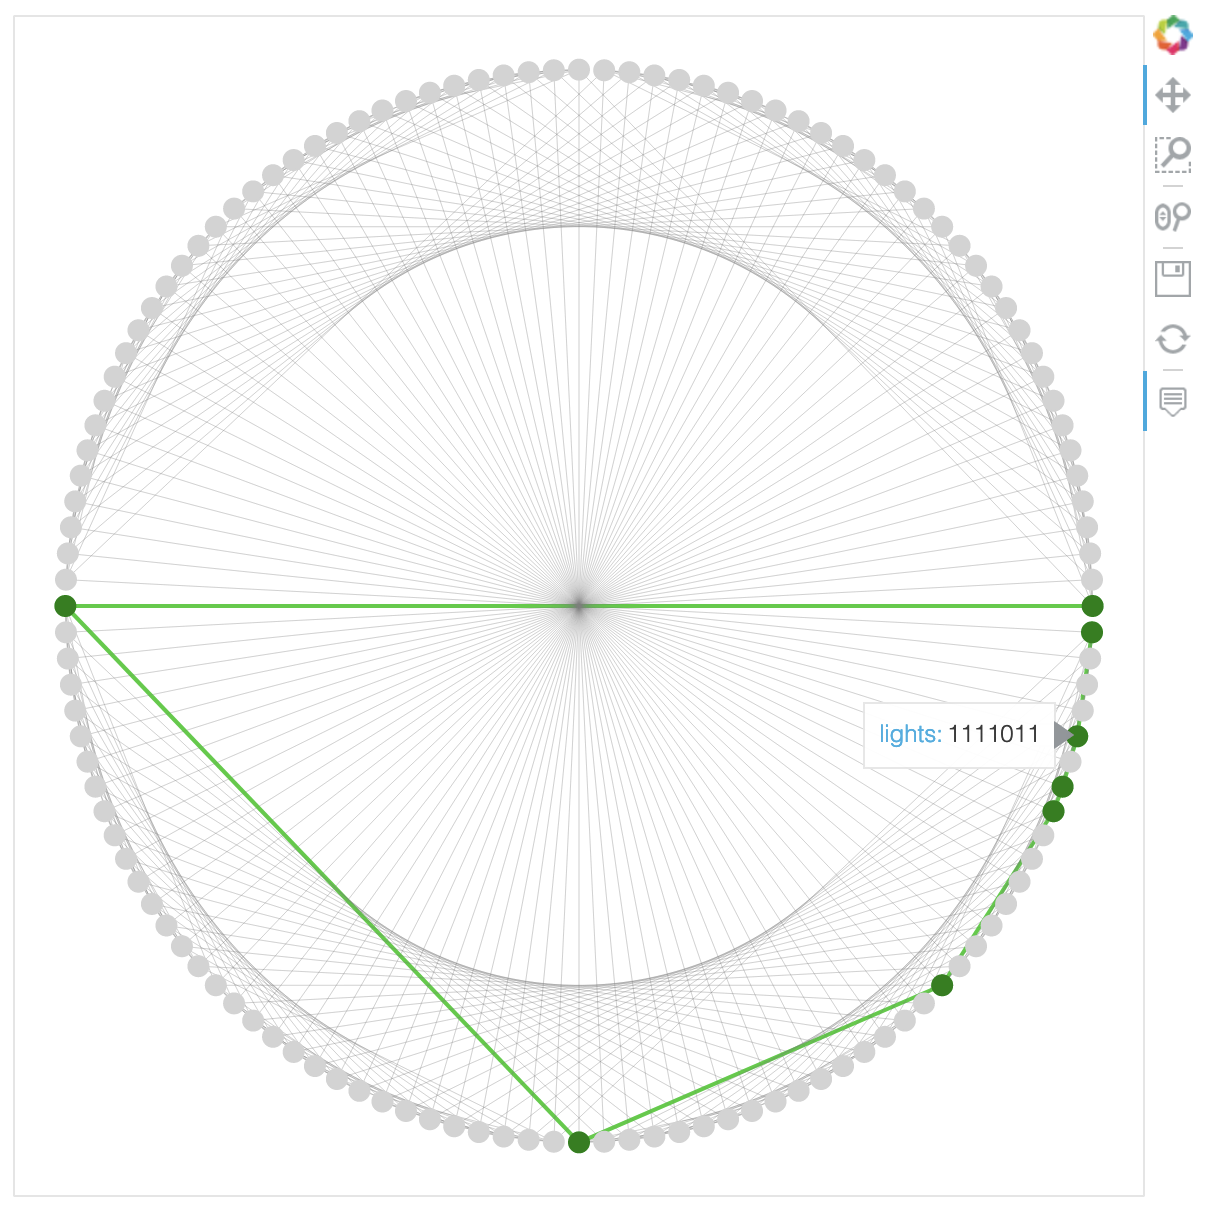
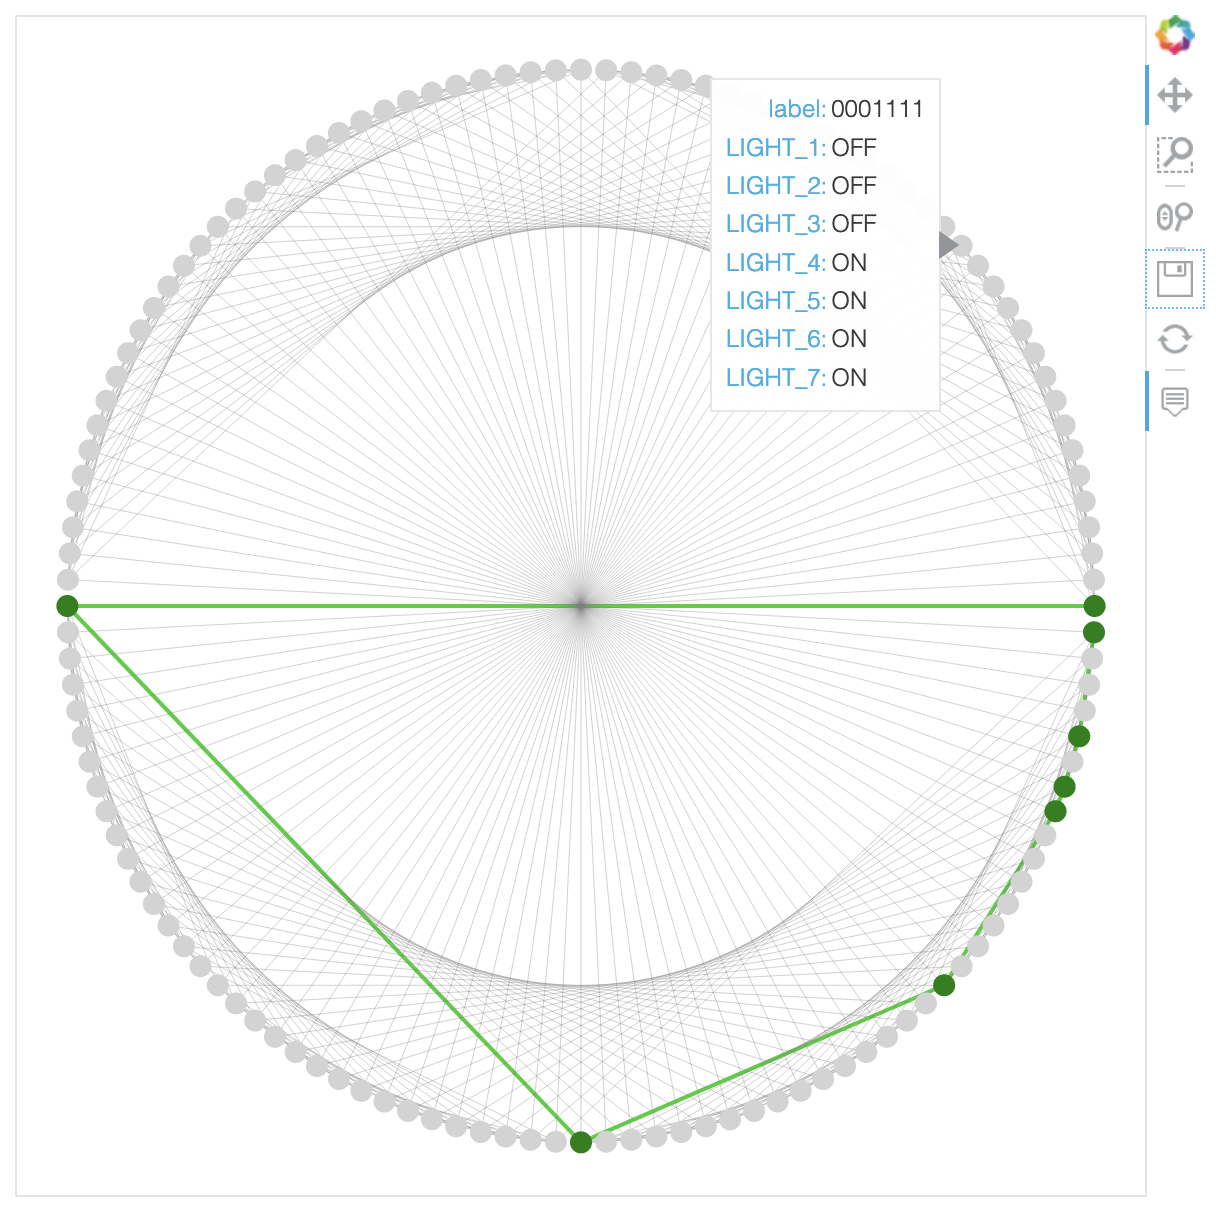
Minor change in Bokeh plots

Changed region(s): [[0.0306, 0.0621, 0.9174, 0.9624], [0.9174, 0.0, 1.0, 0.3725], [0.9174, 0.9624, 0.9479, 0.9935]]

diff --git a/domain.py b/domain.py
@@ -68,9 +68,16 @@ class Domain(nx.DiGraph):
         # Unfortunately, nodes in Bokeh have to be strings or ints
 
         plot_d = nx.DiGraph()
-        plot_d.add_nodes_from([labels[node] for node in self.nodes])
+        plot_d.add_nodes_from([(labels[node], dict(node))
+                               for node in self.nodes])
         plot_d.add_edges_from([(labels[edge[0]], labels[edge[1]])
                                for edge in self.edges])
+
+        tooltips = []
+        for node, data in plot_d.nodes(data=True):
+            for key in data:
+                tooltips += [(key, f"@{key}")]
+            break
 
         if node_color:
             node_attributes = {labels[key]: value
@@ -105,7 +112,8 @@ class Domain(nx.DiGraph):
 
         plot = mod.Plot()
         plot.renderers.append(graph)
-        node_hover_tool = mod.HoverTool(tooltips=[("lights", "@index")])
+        tooltips = [("label", "@index")] + tooltips
+        node_hover_tool = mod.HoverTool(tooltips=tooltips)
         plot.add_tools(node_hover_tool, mod.PanTool(), mod.BoxZoomTool(),
                        mod.WheelZoomTool(), mod.SaveTool(), mod.ResetTool())
 
